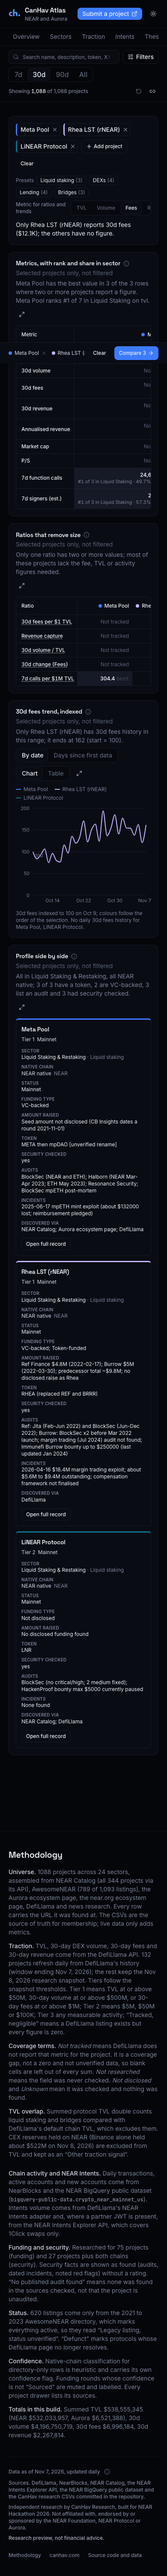
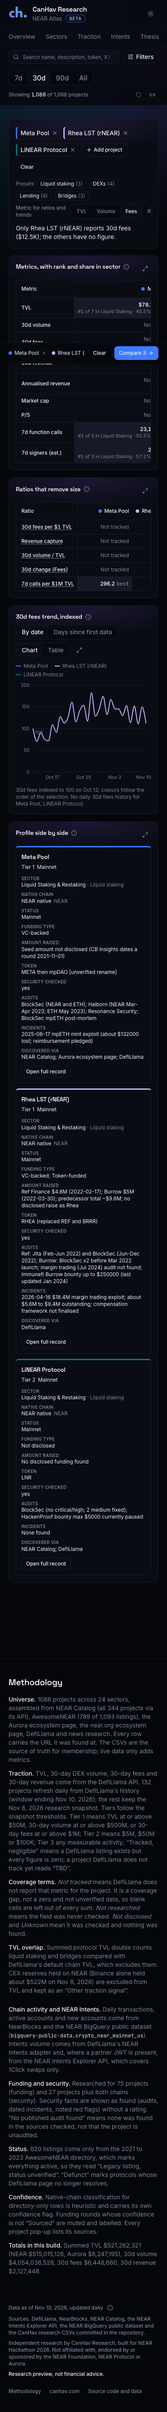
Shared UI standard synced with the Robinhood atlas, second pass notes, README and screenshots
docs/ATLAS-UI.md is byte-identical with the Robinhood copy again. docs/UI-PASS.md records what this pass adopted, who sees what behind the login wall, the analytics events, the differences kept on purpose and the parts of the amended standard not adopted yet. The README covers login, analytics and the steps to move to near.canhav.com, and its disclosure names the modules ported from the Robinhood atlas. Screenshots refreshed, with the logged-out wall added.

diff --git a/docs/ATLAS-UI.md b/docs/ATLAS-UI.md
@@ -1,4 +1,4 @@
-# CanHav Atlas UI standard (shared by the Robinhood and NEAR atlases)
+# CanHav Research Atlas UI standard (shared by the Robinhood and NEAR atlases)
 
 Both dashboards are CanHav Research products and will move to `robinhood.canhav.com` and `near.canhav.com`. They must look and behave like one product family. Save this file in each repo as `docs/ATLAS-UI.md` and treat it as the shared contract. When a rule here conflicts with older code, this file wins. Chain-specific behaviour lives in each repo's own prompt.
 
@@ -7,23 +7,23 @@ Both dashboards are CanHav Research products and will move to `robinhood.canhav.
 Source of truth is the CanHav design system (claude.ai design system artifact "CanHav") synced from the `canhav.dev` repo (github.com/wazarat/canhav.dev, main). Read that repo's Tailwind config and global CSS and port the tokens. Do not invent a new look.
 
 - **Canvas.** Dark is default. Page `ink-950`, cards, menus and popovers `ink-900`. Light theme is the flat `#f5f5f7` canvas with the inverted `ink` scale. Always write against token steps, never raw hex.
-- **Text.** `ink-50` for headings and values, `ink-100` body, `ink-200` labels, `ink-300` secondary copy.
+- **Text.** Two tones only (amended 2026-11-09, owner request). `ink-50` for names, headings, values and body copy; `ink-300` for labels, meta, takeaways and placeholder words such as no, none, undated, undisclosed and "no ticker". No other `ink` step, no `muted-foreground` and no opacity-dimmed text; disabled controls are the only exception. A changed state (a riser, an error) may take colour. `npm run check:copy` flags any other text tone as a "tone" hit.
 - **Lines.** Hairlines are `ink-700` at 60%. Dividers inside a card at 40%.
 - **Action colour.** `electric-500` is the only action colour, with one primary button per view. Selected states use an `electric-500` border over a 10% tint.
 - **Accents.** `neon` and `signal` are accents. `signal-400` means up or met, `rose-400` means down or failed. Only a change in value or an error takes colour.
-- **No badges, chips or pills.** Tier, native-chain, risk and status labels become plain text at `label` size in `ink-300`, with any proof in `mono` `ink-500` after it. Colour only appears for a change in value or an error. Legend swatches inside charts are allowed.
+- **No badges, chips or pills.** Tier, native-chain, risk and status labels become plain text at `label` size in `ink-300`, with any proof in `mono` `ink-500` after it. Colour only appears for a change in value or an error. Legend swatches inside charts are allowed. The one exception is the "Beta" tag in the header lockup (amended 2026-11-09, owner request).
 - **Type.** `display` (Space Grotesk 600, tight tracking) for headings and KPI values, `sans` (Inter) for everything else, `mono` (JetBrains Mono) for addresses, hashes and deltas. Tabular figures in every stat and table.
-- **Surfaces.** Flat. A surface is `ink-900` with a hairline. No blur, glow or gradient on product pages. Skip the landing-page glows and grid background. `radius-md` segments, `radius-lg` buttons, inputs and rows, `radius-xl` cards. `shadow-popover` is the only elevation.
+- **Surfaces.** Lit, as the Studio cards on canhav.com (amended 2026-11-08, this replaces the earlier flat rule). A card is `ink-900` with a hairline and a neon tint that glows down from its top edge for a fixed 7rem (`card-lit`), so chart plots lower in the card stay on the plain surface the chart palette was validated against. Hovering a card lights its border to `neon-500` at 60%. A card that is one click target also lifts 2px with a soft neon shadow (`card-link`); a card that only holds a chart never lifts. The dark page carries the three canhav.com ambient glows (electric top, neon right, signal left) on a fixed layer; the light canvas stays flat. The header, the sticky filter bar and the compare tray are `ink-950` at 80% over a backdrop blur so the glow has no hard edge. No grid background. `radius-md` segments, `radius-lg` buttons, inputs and rows, `radius-xl` cards. `shadow-popover` stays the only elevation for menus and popovers.
 - **Icons.** lucide-react outlines at 14 to 16px in `ink-400`, `ink-50` on hover. No emoji.
 - **Components.** Mirror the design system patterns with the existing shadcn components restyled by the tokens. `Card` and `CardSection` for every panel, `Segmented` for two to four options, `InfoTip` for help longer than one line.
-- **Logo.** Use the CanHav `mark.svg` with "CanHav Atlas" set live next to it. Do not use any chain's logo or brand assets, and keep the "Independent research by CanHav Research, not affiliated with ..." line.
+- **Logo.** A two-line lockup (amended 2026-11-09, owner request). The CanHav `mark.svg` sits on the left at the height of both lines, about 44px. Line one is "CanHav Research" in `display`; line two is the atlas name ("Robinhood Chain Atlas") in `ink-300` followed by a "Beta" tag, an `electric-500` hairline pill with `electric-300` uppercase text at 10px. The favicon is the canhav.com "ch." icon (`src/app/icon.png`, `apple-icon.png`, `favicon.ico`). Do not use any chain's logo or brand assets, and keep the "Independent research by CanHav Research, not affiliated with ..." line.
 
 ### Chart colours
 The design system has no data-visualisation palette, so keep a separate chart palette. Build it from the brand hues (electric, neon, signal) plus neutrals, keep one fixed colour per category across every chart, and re-run the existing colour-vision validator in both themes. Keep the second encoding (marker shape) where colour alone fails.
 
 ## 2. Voice and copy
 
-- No em dashes and no colons in any user-facing string. Split the sentence or use a comma. Add a `npm run check:copy` script (modelled on the one in canhav.dev) that fails CI if a UI string contains either.
+- No em dashes and no colons in any user-facing string. Split the sentence or use a comma. Add a `npm run check:copy` script (modelled on the one in canhav.dev) that fails CI if a UI string contains either. One exception (owner, 2026-11-10): a card takeaway's lead line ends in a colon, "Over the last 30 days:", above one short dateless point per insight (`src/components/atlas/takeaway-list.tsx`).
 - Sentence case for headings, buttons and labels.
 - Plain factual sentences. No hype, no exclamation marks.
 - Every data surface names its source. The footer carries "Research preview, not financial advice."
@@ -34,12 +34,18 @@ The design system has no data-visualisation palette, so keep a separate chart pa
 - **Footer.** Move "Data as of <date>, updated daily" out of the header into the footer, together with the data sources list, methodology link, the disclaimer, a link to the sibling atlas, and a link to canhav.com. The date reads from `_meta.json`.
 - **Container.** Centred to `container-max` with 20, 24 and 32px gutters. Sections `space-16` apart.
 
+- **Detail opens in a centred modal** (amended 2026-11-09, owner request; this replaces the side drawer). A project, a sector's leaders or a funding type opens in one shared modal (`src/components/atlas/atlas-modal.tsx`), about 960px wide on desktop and a full-screen sheet on phones. Esc and a backdrop click close it, focus is trapped and the page behind does not scroll. The open item lives in the URL (`?project=`, `?sectorDrawer=`, `?fundingType=`) so links keep working. The project modal puts the header (name, sector and native chain as plain text, website, Add to compare, Suggest a correction), Overview and Traction on the left and the history chart with its metric and range controls on the right, then Financials, Funding, Security facts, Sources, Events and Similar projects full width. Opening a project from inside another modal replaces it rather than stacking a second one.
+
+- **Access** (added 2026-11-09, owner request; phase 1 of the login wall). One Clerk production application serves canhav.com and the atlases, so a login on one is a login on all. Overview, Methodology and the footer pages are public. Every other tab, hidden ones included, shows the login pop-up ("Log in for free access", one line, "Log in" and "Create free account" opening Clerk's own modals) over a blurred, inert preview, keeping the URL so the page loads after login. Compare shows any comparison already in the URL; Add to compare anywhere opens the pop-up and finishes after login. A shared project link shows the header, Overview and Traction, with the rest behind one login panel. Submit a project and Suggest a correction stay open. The header shows "Log in" or Clerk's UserButton. The rules live in `src/lib/gate.ts`; without Clerk keys the wall is off. Phase 1 gates in the browser only; keeping gated data out of the public bundle is phase 2.
+- **Tier labels.** The data keeps "Not tracked" as a tier; readers see "TBD" (`tierLabel` in `src/lib/tier.ts`). Metric cells keep "Not tracked" for a blank value.
+
 ## 4. Global controls
 
 - **Remove the global metric switcher** (Projects, TVL, Volume, Fees, Revenue). It changes too little on most pages and confuses people.
-- **Keep the time range** (7d, 30d, 90d, All) as the only global control next to the filters.
-- **Charts that genuinely need a metric** (sector treemap, concentration curve, leaderboard sort, compare) get their own small `Segmented` control inside the chart card. Their choice is stored in the URL under that chart's own key.
-- **Filter scope must be honest.** Any chart or KPI that ignores the filters (for example whole-chain history) shows "Whole chain, not filtered" in its subtitle and stays the same when filters change. When filters are active, every filtered card shows the active filter count in its subtitle.
+- **No global chart control** (amended 2026-11-08, this replaces the global time range). The 7d, 30d, 90d, All control sits on each card that shows a time window, in that card's actions, and drives every panel in that card and nothing else. Each card stores its choice in the URL under its own key (`cr` chain over time, `ar` chain activity, `mr` risers and fallers, `hr` project side bar history, `xr` compare trend, `pr` `wr` `dr` stocks) and opens at 30d. A card whose data is a fixed 7, 30 or 90 day comparison does not offer All. The filter bar holds only search, facets, the result count, Reset and Copy link.
+- **Charts that genuinely need a metric** (sector treemap, share of chain bars, risers and fallers, compare) get their own small `Segmented` control inside the chart card. Their choice is stored in the URL under that chart's own key. A chart that splits by a category readers may want to isolate (for example native-chain type on the business model chart) gets a `MultiSelect` in its card actions, also under its own key (`nc`), where empty means all.
+- **Leaderboards stay lean** (amended 2026-11-08). A ranked table shows identity and the one figure it ranks by: Project, Sector, Native chain, Tier, TVL on Traction. No column sets, metric switch, change or sparkline columns. A row opens the side bar, which carries every other figure, including 7d, 30d and 90d change. Amended 2026-11-09: the Traction leaderboard and the Explorer may offer onchain columns (Stablecoin supply, Token volume (30d), Holders) in the Columns chooser, hidden by default, so the default view keeps its five columns.
+- **Filter scope must be honest.** Any chart that ignores the filters (for example whole-chain history) stays the same when filters change; it carries no scope note (amended 2026-11-09, the owner removed "Whole chain, not filtered"). When filters are active, every filtered card shows the active filter count in its subtitle.
 
 ## 5. Coverage language
 
@@ -52,32 +58,40 @@ Blank metrics mean the source does not track that project. They are not unverifi
 ## 6. Charts
 
 - **Expand.** Every chart card has an Expand button that opens a full-screen dialog with the same chart larger, its table view, its source and a range brush for zooming into a period. Esc closes it and the open chart is stored in the URL (`?expand=<chartId>`) so it can be shared.
-- **Level series** (TVL, supply, holders) default to a fitted y-axis with about 10% padding, labelled clearly, plus a "Start at zero" toggle. Show the min, max and percent change for the visible range in the subtitle, so small movements are readable. Bar and flow series (volume, fees, revenue, transactions) always start at zero.
-- **Default range.** Level series default to 90d (or All when history is shorter) so there is enough shape to read. Flow series follow the global range.
+- **Level series** (TVL, supply, holders) default to a fitted y-axis with about 10% padding, labelled clearly, plus a "Start at zero" toggle. Show the min, max and percent change for the visible range in a line under the chart, never beside the title, so small movements are readable and the line is not mistaken for a heading. Bar and flow series (volume, fees, revenue, transactions) always start at zero.
+- **Default range.** Every card opens at 30d and every panel in it, level or flow, follows the card's own range control. The stats line under a level series names the window it covers.
 - **Tooltips** never cover the legend or the value being hovered, and never overflow the card.
-- **Every chart** keeps its one-line takeaway caption, its source InfoTip, a Chart and Table toggle, and an empty state.
+- **A share needs its benchmark** (added 2026-11-08). A split of volume across unequal buckets (hours of the week, sessions) is shown against how the buckets themselves split, as a first row and guide lines, so a reader can tell a real concentration from a bucket that is simply bigger. When pools or accounts can sit under more than one row, the total row counts each one once and the info tip says so. Volume that cannot be attributed gets its own named, hatched row; it is never folded into a venue or dropped.
+- **No grids of near-identical cells.** A heat grid whose cells mostly share one colour says nothing. Summarise by the few groups that matter (for premium: NYSE open, weekdays closed, weekends) with a typical value and its usual range on one axis.
+- **Every chart** keeps its source InfoTip, a Chart and Table toggle, and an empty state.
+- **Takeaways and notes** (amended 2026-11-08). A one-line takeaway under a chart title is allowed only when it is generated from the data on the page, so it can never go stale. Hand-written lines and research notes (for example a double-counting caveat or a claim about one named project) leave the public page: pass them to the card's `adminNote`, which renders only on a build with `NEXT_PUBLIC_SHOW_NOTES=1`, until an admin account exists. A count inside a sentence is computed, never typed. Definitions and method caveats belong in the InfoTip or on the Methodology page.
 
 ## 7. Sector treemap
 
 - **Labels.** Pick label colour by tile luminance (dark text on light tiles, light on dark) with no text stroke or shadow. Wrap to two lines, then truncate with an ellipsis. Hide the label on tiles too small to fit it and rely on the tooltip.
-- **Drill-down.** Clicking a sector zooms into that sector instead of becoming one solid block. Inside a sector, group projects by `Subcategory` (projects with none go in "Unclassified"). If a sector has fewer than 3 subcategories, show its projects as individual tiles instead, sized by the chart's metric with untracked projects grouped in one "Not tracked" tile. Show a breadcrumb ("All sectors, Exchanges and on/off-ramps") with a back control. Clicking a project tile opens the project drawer.
+- **Drill-down.** Clicking a sector zooms into that sector instead of becoming one solid block. Inside a sector, group projects by `Subcategory` (projects with none go in "Unclassified"). If a sector has fewer than 3 subcategories, show its projects as individual tiles instead, sized by the chart's metric with untracked projects grouped in one "Not tracked" tile. Show a breadcrumb ("All sectors, Exchanges and on/off-ramps") with a back control. Clicking a subcategory tile opens the sector side bar scoped to that subcategory (title "Sector, Subcategory", URL keys `sectorDrawer` and `sectorSub`), listing its projects with a link back to the whole sector (amended 2026-11-08). Clicking a project tile opens the project drawer. The grouped "Not tracked" tile stays inert.
 - **Filtering stays separate.** Applying a sector filter is its own action ("Filter to this sector") in the tooltip or breadcrumb, not the default click.
 
 ## 8. Timeline
 
-One shared Timeline component, modelled on the NEAR atlas timeline (summary line with counts, legend chips that toggle types and show counts, Chart and Table toggle, log-scaled marker area, note about month-only dates, click to open the source).
+One shared Timeline card (amended 2026-11-08: it opens as a table and every source must be direct).
 
-- Each atlas sets a default start date in config. Events before it are collapsed into one "Before <date>" marker or a "Show earlier events" toggle, so the default view is not mostly empty space.
+- **Table first.** The card opens on its table view with four columns: Date, Type, Event, Projects. The chart (one lane per type, legend buttons that toggle types and show counts, log-scaled marker area) is the second view of the same card.
+- **Detail in a popup.** Clicking a row or a chart marker opens a popup with the amount, what the amount measures, the detail and the source. The open event is stored in the URL (`?event=<id>`) so it can be shared. The same popup opens from the money flow cards on Funding and from the Events list in a project side bar. The CSV download carries every field.
+- **Direct sources only.** A source must land the reader on the claim: one article, one post (`x.com/<handle>/status/<id>`) or one page about the subject. A profile, a home page or a search page is not a source. `isDirectSource` in `src/lib/sources.ts` is the rule; when a link fails it the UI says "No direct source yet" and offers no link, in the popup, the side bar and the CSV. Fix the data, do not soften the rule.
+- Each atlas sets a default start date in config. In the chart view, events before it are collapsed into one "Before <date>" marker with a "Show earlier events" toggle, so the default view is not mostly empty space.
 
 ## 9. Funding
 
 - The funding-type donut shows only projects with disclosed funding (VC-backed, token-funded, treasury, grant or program, corporate, acquired, bootstrapped, other). "Not disclosed" and "Not researched" leave the donut and become one line of text under it (for example "159 researched, 63 with disclosed funding, 96 not disclosed, 448 not researched").
 - Fix the donut tooltip so it never overlaps the legend.
+- **Tables of records** (added 2026-11-08). A table title carries no row count; the count lives in the table's own "Showing X of N" line, which follows its filters. A table readers may want to narrow gets its own toolbar (search, facets with counts, Reset) under its own URL keys, stacked on the page filters (backers: `bq`, `bt`, `bn`, `bk`), and sortable headers.
+- **One word for an empty value.** Whatever the source file says for nothing ("None", "Unknown", "N/A", a blank), a cell shows one lower-case word in muted ink: "none" for a token or a list, "undisclosed" for an amount, "no source" for a link. Text that says something ("N/A (acquisition ~$200M)") is kept as written. This is a display rule (`src/lib/backer-filters.ts`); the parsed data is not changed.
 
 ## 10. Security and risk
 
-- **No per-project risk ratings in public views.** Remove named High, Medium and Low lists and per-project risk labels from the Security page, tables, filters and the drawer. Keep aggregate views only, such as counts by red-flag type (no published audit found, pseudonymous team, paused or shut down, past incident) and by sector.
-- **Facts stay, ratings go.** The project drawer may still list sourced facts (audits found, dated incidents) in neutral wording with their source links, but no rating.
+- **No per-project risk ratings in public views.** Remove named High, Medium and Low lists and per-project risk labels from the Security page, tables, filters and the project modal. Keep aggregate views only, such as counts by red-flag type (no published audit found, pseudonymous team, paused or shut down, past incident) and by sector.
+- **Facts stay, ratings go.** The project modal may still list sourced facts (audits found, dated incidents) in neutral wording with their source links, but no rating.
 - **Incidents** become a sortable table (date, event, what happened, amount if any, source link). Remove the incident scatter chart. Keep neutral, factual wording copied from sources and never speculate about intent.
 - **Chain-level risk** stays as a checklist. Status is plain text per the design system, with colour only for the status word.
 - Remove the "Security risk" global filter.

diff --git a/README.md b/README.md
@@ -29,7 +29,7 @@ npm start            # open http://localhost:3000
 - Open `/`: see the KPI tiles, chain over time and chain activity (NearBlocks with the BigQuery overlay), the sector treemap, native vs imported shares, concentration curve, analyst notes and the events timeline.
 - Open `/thesis`: see the verdict badge, then one card per test. Click **Query** on any card: see the exact SQL or API call and the transform behind it. The same numbers are in `THESIS.md`.
 - Open `/intents`: see 1Click swap volume from the Explorer API next to DefiLlama's all-channel series with the share, plus routes, assets and referrals.
-- Run `npm test`: see the unit tests (fixtures only, no live calls). Run `npm run e2e` (it builds for itself): see the Playwright checks at 1440 and 390 px with zero console errors.
+- Run `npm test`: see the unit tests (fixtures only, no live calls). Run `npm run e2e` (it builds for itself): see the Playwright checks at 1440 and 390 px with zero console errors. Run `npm run e2e:wall`: see the login wall as a logged-out reader meets it.
 - Run `npm run rebuild` twice: see no diff in `src/data/generated/` or `THESIS.md`.
 
 ## Pages
@@ -42,12 +42,12 @@ npm start            # open http://localhost:3000
 | `/intents` | 1Click swap volume, weekly series, success and refund rates, routes, assets, referrals, coverage against DefiLlama |
 | `/thesis` | The claim, verdict and four tests with Chart, Table and Query tabs, confounders, evidence for and against, what would change the conclusion |
 | `/funding` | Funding type breakdown, ecosystem money cards, rounds table, rounds over time, financials |
-| `/investors` | Investors by deals, portfolios, investor drawer |
+| `/investors` | Investors by deals, portfolios, investor pop-up |
 | `/security` | Chain-level checklist for NEAR L1, NEAR Intents and Aurora, security facts by type and by sector (no per-project ratings), incidents as a sortable table |
 | `/explorer` | Every column with a column chooser and CSV download of the filtered view, plus the "Newly detected" review list |
 | `/compare` | Up to four projects: metric matrix with sector ranks, ratios, indexed overlay, side-by-side profiles |
 
-Every chart has a one-line takeaway, an info icon naming its source, an empty state, a table view and an Expand button that opens it larger with a range brush; the thesis and chain-activity charts also have a Query tab. Filters, the date range, each chart's own metric, the compare selection, the open drawer and the expanded chart (`?expand=<id>`) live in the URL, so any view can be shared.
+Every chart has an info icon naming its source, an empty state, a table view and an Expand button that opens it larger with a range brush and its computed summary as points (Thesis and Intents keep the summary on the card); the thesis and chain-activity charts also have a Query tab. Filters, the date range, each chart's own metric, the compare selection, the open project, sector or investor pop-up and the expanded chart (`?expand=<id>`) live in the URL, so any view can be shared.
 
 ## Data
 
@@ -111,23 +111,30 @@ Weekly ISO-week series of Intents volume (DefiLlama, all channels, since 2024-12
 
 ## Disclosure
 
-The architecture (store raw data by source key and join at build time, static export, daily GitHub Action, idempotent history store, fixtures-based tests, generic data table, chart cards with a table view, URL state) follows my earlier Robinhood Chain Ecosystem Atlas. This repository was written fresh for NEAR Hackathon 2026 and shares no code at runtime. All code in this repository was written during the hackathon window.
+The architecture (store raw data by source key and join at build time, prerendered pages, daily GitHub Action, idempotent history store, fixtures-based tests, generic data table, chart cards with a table view, URL state) follows my earlier Robinhood Chain Ecosystem Atlas. This repository was written fresh for NEAR Hackathon 2026. On Nov 11, 2026 the header lockup, the login wall, the analytics event rules, the shared detail modal and the one-line chart axis were ported from that atlas, where I wrote them between Nov 9 and Nov 11; the two sites hold their own copies and share nothing at runtime except the login. All code in this repository was written during the hackathon window.
+
+## Login and analytics
+
+One Clerk application serves canhav.com and the atlases, so a login on one is a login on all. With `NEXT_PUBLIC_CLERK_PUBLISHABLE_KEY` and `CLERK_SECRET_KEY` set, Overview, Thesis, the footer methodology and a comparison already in the URL stay open; Sectors, Traction, Intents, Funding, Investors, Security and Explorer ask for a free login over a blurred preview, and a shared project link shows its header, Overview and Traction. The rules are one table in `src/lib/gate.ts`. Without the keys the wall is off, which is how local runs and CI work. The wall gates in the browser only; this repository and its data are public.
+
+Vercel Web Analytics counts page views and thirteen custom events (`src/lib/track.ts`), such as a tab view, a project opened by sector, a chart expanded, a filter used and a login prompt shown. Every property comes from a closed set, so no name, account, investor, URL or typed text is sent, and the script loads only on Vercel.
 
 ## Design system and domain
 
 The site follows the shared CanHav Atlas UI standard in [`docs/ATLAS-UI.md`](docs/ATLAS-UI.md), the same contract the Robinhood Chain atlas uses, with the tokens from the canhav.dev design system. Fonts (Inter, Space Grotesk, JetBrains Mono) are self-hosted latin variable cuts under the SIL Open Font License (`src/app/fonts/LICENSE.txt`), so a build needs no network. `npm run check:copy` fails CI when a user-facing string carries an em dash or a colon. The chart palette is built from the brand hues; `docs/UI-PASS.md` records the pass and the differences kept on purpose.
 
-Planned domain: `near.canhav.com` (the Robinhood atlas moves to `robinhood.canhav.com`). To point it at this project once DNS is ready:
+Planned domain: `near.canhav.com` (the Robinhood atlas is at `robinhood.canhav.com`). To move this project there:
 
-1. In Vercel, Project, Settings, Domains, add `near.canhav.com` and create the CNAME it shows at the DNS provider.
-2. Set `NEXT_PUBLIC_SITE_URL=https://near.canhav.com` and `NEXT_PUBLIC_SIBLING_ATLAS_URL=https://robinhood.canhav.com` in the project's environment variables and redeploy, so canonical URLs, the Open Graph card, `sitemap.xml` and the footer link follow.
-3. Update the live URL at the top of this file and in `docs/SUBMISSION.md`.
+1. In Vercel, Project, Settings, Domains, add `near.canhav.com` (its CNAME already points at Vercel).
+2. In the project's Production environment set `NEXT_PUBLIC_SITE_URL=https://near.canhav.com` and `NEXT_PUBLIC_SIBLING_ATLAS_URL=https://robinhood.canhav.com`, so canonical URLs, the Open Graph card, `sitemap.xml` and the footer link follow.
+3. To turn the login wall on, add the two Clerk keys to the same environment and redeploy. Clerk's production keys only work on canhav.com, so from that deploy on every `vercel.app` host redirects to `near.canhav.com` (`next.config.ts`).
+4. Update the live URL at the top of this file and in `docs/SUBMISSION.md`.
 
 Until then the public origin is the Vercel URL above, set through the same two variables. `public/og.png` is rendered once by `npx tsx scripts/og-image.ts` (Playwright) from the committed data and committed.
 
 ## Libraries
 
-Next.js, React, Tailwind CSS, shadcn/ui, Recharts, TanStack Table, nuqs, Papa Parse, @google-cloud/bigquery (scripts only), Vitest, Playwright, tsx.
+Next.js, React, Tailwind CSS, shadcn/ui, Recharts, TanStack Table, nuqs, Papa Parse, Clerk, Vercel Web Analytics, @google-cloud/bigquery (scripts only), Vitest, Playwright, tsx.
 
 ## License
 

diff --git a/docs/UI-PASS.md b/docs/UI-PASS.md
@@ -53,3 +53,62 @@ Before screenshots (every page at 1440 and 390 px, dark and light) were taken on
 ## Verification per milestone
 
 `npm run check:copy`, `npm run lint`, `npm run typecheck`, `npm test` (110 tests, including treemap drill-down, coverage labels, chart frame, copy lint, funding grouping, timeline split and security facts), `npm run build` and `npm run e2e` (four projects: desktop and phone, dark and light; 124 checks with zero console errors and no horizontal overflow), then a browser check at 1440 and 390 px in both themes. Every commit is authored as Wazarat Hussain with no attribution trailers, pulled with rebase before each push.
+
+# Second pass, 2026-11-11: lockup, login wall, analytics and the amended standard
+
+The Robinhood Chain atlas amended the shared standard after the first pass and added a login wall and analytics. This pass brings the NEAR atlas level with it. [`ATLAS-UI.md`](ATLAS-UI.md) is again byte-identical with the Robinhood copy. Nothing under `data/`, `queries/` or `THESIS.md` changed and no number on the site moved; the only changes a reader sees in figures are the wording "Tracked for 84/1,088 projects" (was "84 of 1,088") and an untracked tier reading "TBD".
+
+## What changed
+
+| Area | Change |
+|---|---|
+| Brand | Two-line lockup: the CanHav mark at 44px, "CanHav Research", then "NEAR Atlas" with the Beta tag. The name lives in `src/lib/site.ts` and feeds page titles, Open Graph and the share card. The `ch.` favicon set (`src/app/icon.png`, `apple-icon.png`, `favicon.ico`). Every page carries its own canonical URL. |
+| Platform | Served by Next instead of a static export; pages still prerender as static HTML. `src/proxy.ts` runs Clerk when its keys are set. |
+| Access | One Clerk application serves canhav.com and the atlases. The rules are in `src/lib/gate.ts`. Without Clerk keys the wall is off. |
+| Analytics | Vercel Web Analytics with thirteen custom events (`src/lib/track.ts`), each with at most two properties from closed sets. |
+| Surfaces | Cards lit from the top edge, the three ambient lights on the dark page, translucent header, filter bar and compare tray. |
+| Text | Two tones, `ink-50` and `ink-300`, enforced by `npm run check:copy` as a "tone" hit. |
+| Tiers | An untracked tier reads "TBD" (`tierLabel` in `src/lib/tier.ts`); one shared explainer built from the thresholds. Metric cells and the CSV export keep "Not tracked". |
+| Detail | Project, sector and investor details open in one centred modal (`src/components/atlas/atlas-modal.tsx`), a full-screen sheet on a phone. Opening a project from the sector or investor modal replaces it. The sector modal follows the active filters and says so. URL keys are unchanged (`project`, `sectorDrawer`, `investor`). |
+| Controls | Result count on the first row of the filter bar with Reset and Copy link under it. KPI text shortened and no longer cut off. The low, high and change line sits under its chart. No "Whole chain, not filtered" note. |
+| Charts | Card summaries show as points in the expanded view. Chart card controls wrap under the title when both do not fit. Bar labels stay on one line. Sector cards show their stats at display size. |
+
+## Who sees what
+
+| Area | Logged out | Logged in |
+|---|---|---|
+| Overview, Thesis, the footer methodology | Full | Full |
+| Sectors, Traction, Intents, Funding, Investors, Security, Explorer | Login pop-up over a blurred, inert page; the URL is kept | Full |
+| Compare | A comparison already in the URL renders; removing works | Full |
+| Add to compare, presets, top-project buttons | Login pop-up; the intended selection is written after sign-in | Works |
+| Project pop-up | Header, Overview and Traction, then one login panel | Full |
+| Sector and investor pop-ups from a shared link | Title and summary line, then one login panel | Full |
+| An expanded chart link on a gated tab | Stays closed | Opens |
+| Submit a project, Suggest a correction | Open | Open |
+
+This is phase 1 of the wall: it gates in the browser. The page's data is still in the bundle, and this repository and its data are public, so the wall is a sign-up prompt, not a secret.
+
+## Analytics events
+
+`tab_view`, `project_open`, `sector_open`, `investor_open`, `chart_expand`, `chart_view`, `csv_download`, `filter_use`, `compare_add`, `login_prompt_shown`, `signup_complete`, `correction_click`, `submit_project_click`. A property value outside its closed set is dropped, so no name, account, investor, URL or typed text can be sent; `tests/track.test.ts` checks that. `auth` is `off` (no wall in this build), `in` or `out`.
+
+## Differences from the Robinhood atlas kept on purpose
+
+- **Every tab is shown.** The standard's Access paragraph names Overview and Methodology as the public pages and mentions hidden tabs. Here no tab is hidden, and Thesis is public as well, because it is the argument this atlas makes. Agreeing the two documents needs one clause in the shared file.
+- **Thesis and NEAR Intents keep their card summaries on the card**, not only in the expanded view.
+- **Analyst notes and the TVL double-count note stay public.** The standard sends hand-written notes to an admin-only build; here they carry real information for readers.
+- **The treemap still zooms into a sector.** The Robinhood code opens the sector pop-up from a tile; the written standard asks for the zoom.
+- **Sector cards keep "With traction".** With 1,088 mostly unmeasured projects it is the figure that says how much of a sector is live.
+- **The funding-type chart stays a bar chart**, as before.
+
+## Parts of the amended standard not adopted yet
+
+Per-card time range (the date range is still the one global control, and level series keep their 90-day floor), the five-column leaderboard (the Activity column set is NEAR BigQuery data), the timeline's table-first view with an event pop-up and the direct-sources rule, tables-of-records toolbars, the funding-type modal, and the Explorer map view.
+
+## Parts that do not apply to NEAR
+
+Hidden tabs, the stocks page and its keys (`pr`, `wr`, `dr`), share-of-chain bars on DefiLlama chain totals (the concentration curve stays), onchain columns from Blockscout and GeckoTerminal, the sector metric registry, and the gated data API of the wall's phase 2.
+
+## Verification
+
+Per commit: `npm run check:copy`, `npm run lint`, `npm run typecheck`, `npm test` (144 tests), and `npm run e2e` (153 checks at desktop and phone widths, dark and light, wall off, zero console errors and no horizontal overflow). `npm run e2e:wall` (38 checks) covers the logged-out wall on a build that treats every reader as logged out. `npm run e2e:auth` repeats those against a Clerk development instance and adds the signed-in checks; it needs the development keys and skips without them.

diff --git a/docs/screenshots/README.md b/docs/screenshots/README.md
@@ -1,3 +1,5 @@
 # Screenshots
 
-Full-page captures of every page at 1440 px (desktop) and 390 px (phone) in dark mode, written by `npm run screenshots` after `npm run build`. The `-desktop` and `-phone` suffixes name the viewport. The e2e suite also captures both widths in light mode (`-light` suffix) under `e2e/screenshots/`, which is not committed to keep the repository small; the before-and-after set from the UI pass is summarised in [`../UI-PASS.md`](../UI-PASS.md).
+Full-page captures of every page at 1440 px (desktop) and 390 px (phone) in dark mode, written by `npm run screenshots`, which builds for itself. The `-desktop` and `-phone` suffixes name the viewport. The e2e suite also captures both widths in light mode (`-light` suffix) under `e2e/screenshots/`, which is not committed to keep the repository small; the before-and-after set from the UI pass is summarised in [`../UI-PASS.md`](../UI-PASS.md).
+
+The `wall-` files show the login wall as a logged-out reader meets it (viewport captures from `npm run e2e:wall`): the public Overview and Thesis, the header login pop-up, a gated tab, a shared project link and a comparison from the URL.
